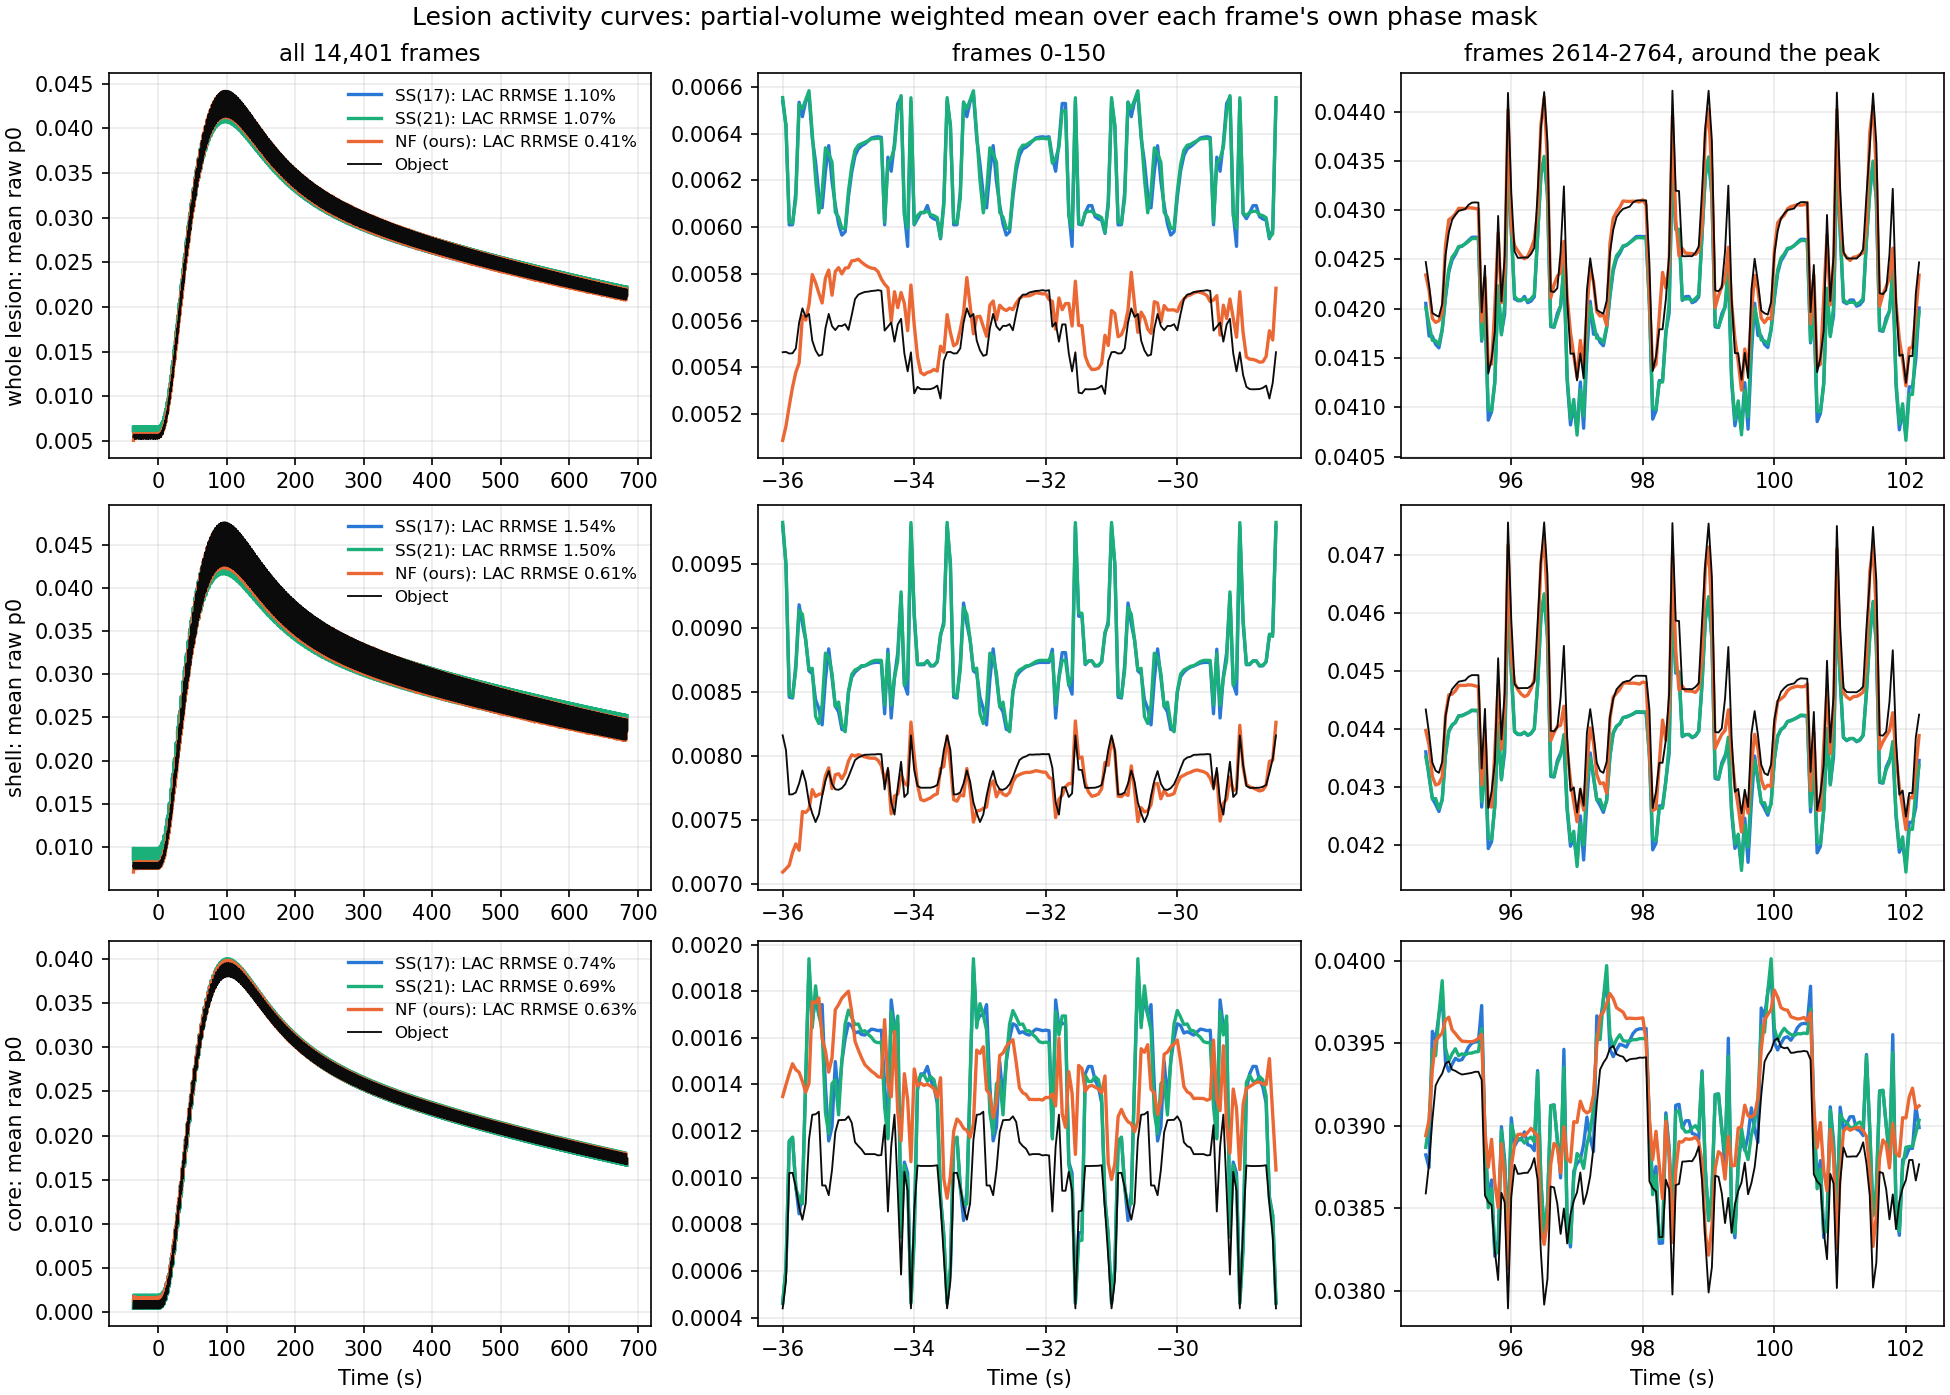
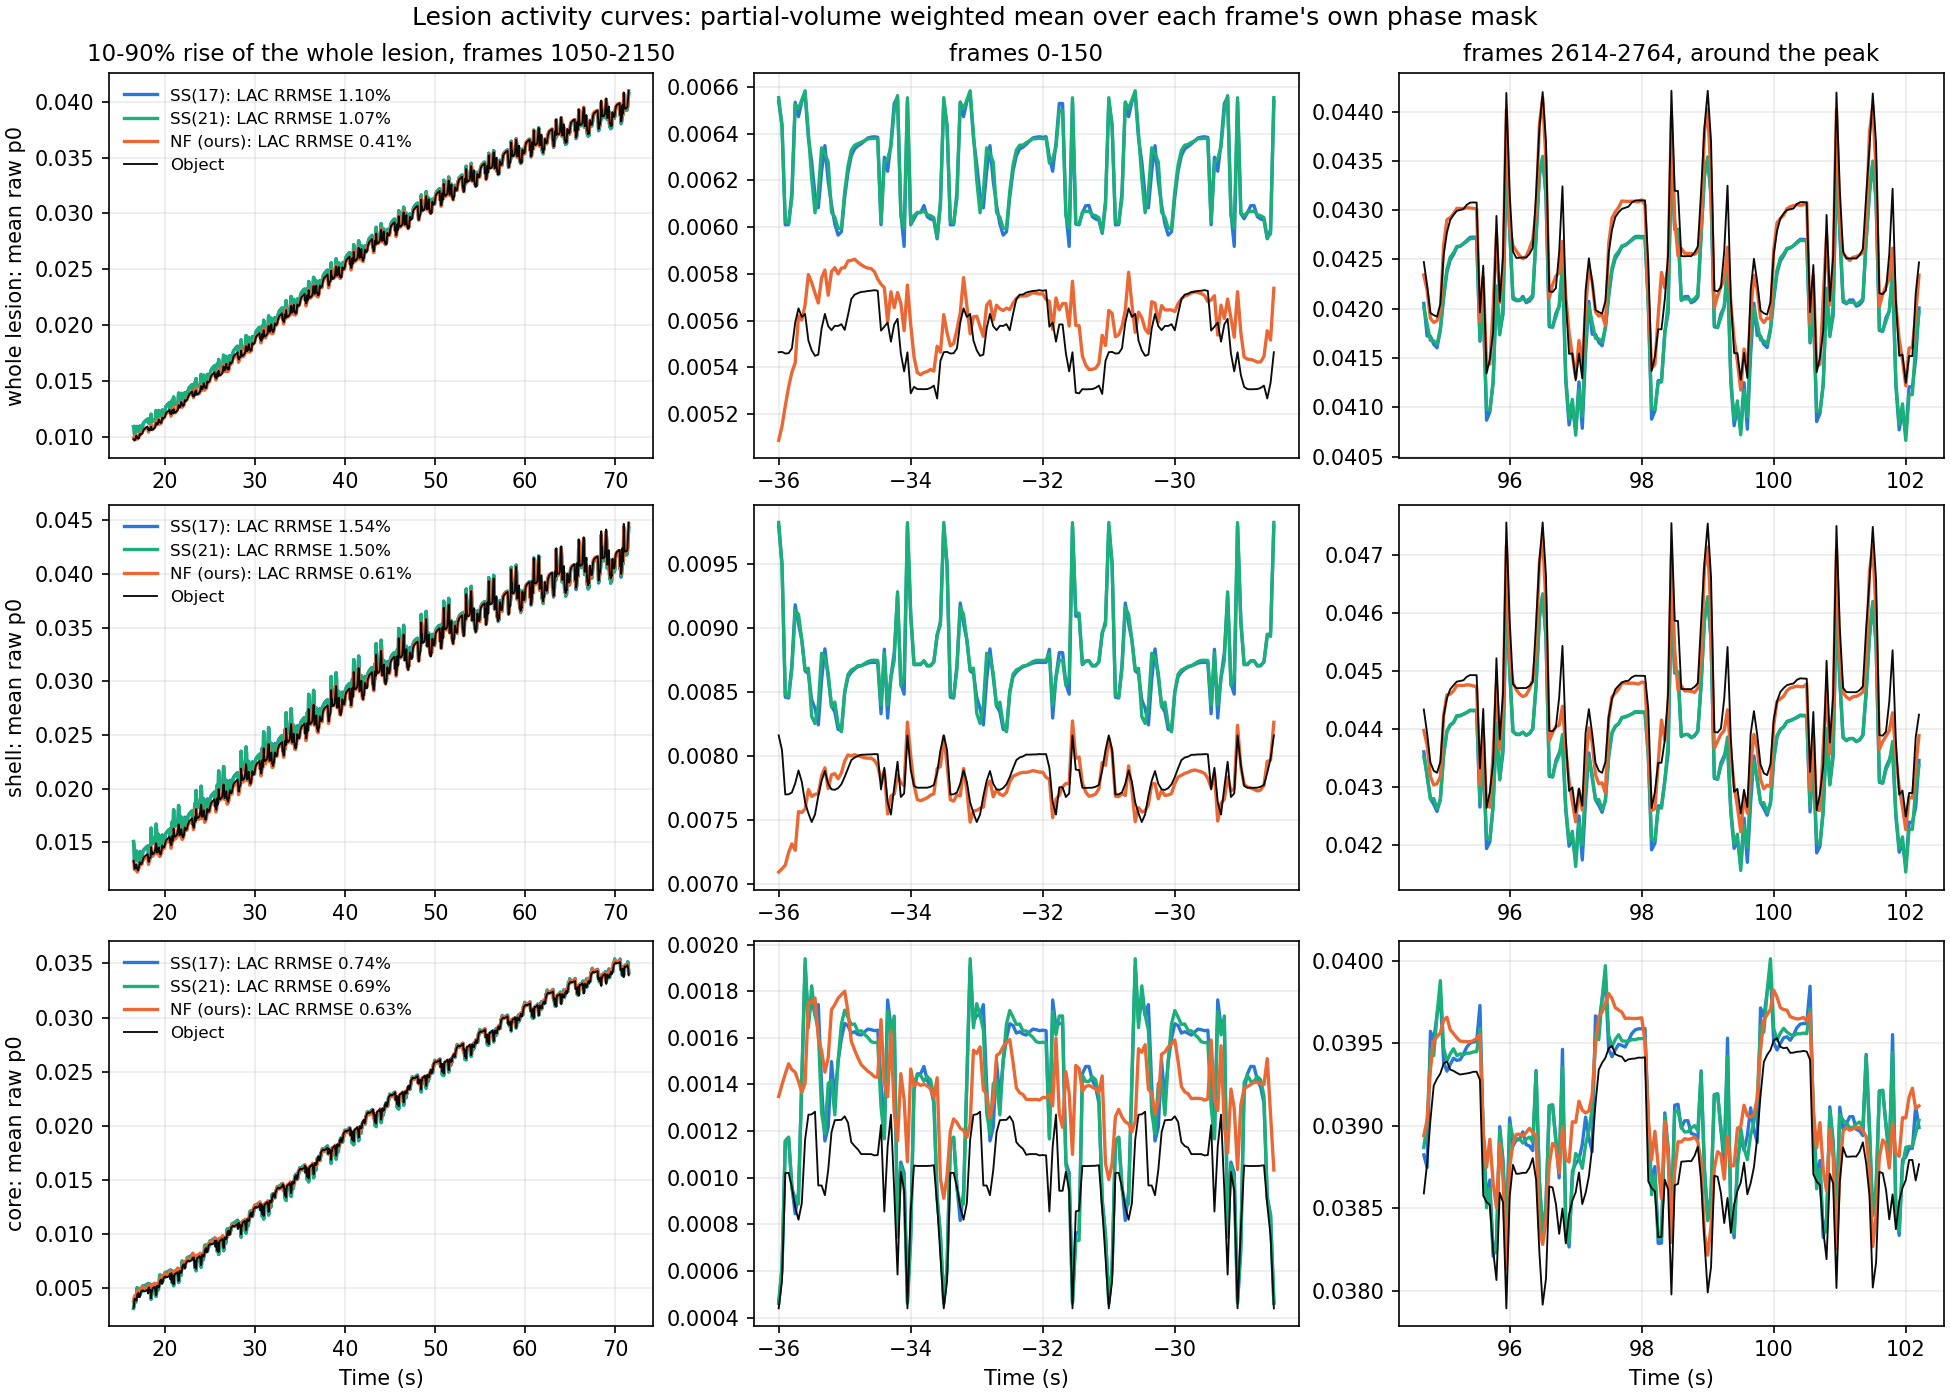
Regenerate the lesion-curve figure with the rise panel
Rerun moby_lesion_curves at ccf0b6b on the formal run: the curves are bitwise
identical to the earlier record; the figure now shows the 10-90% rise of the
whole lesion and the json records the new commit.

diff --git a/motion_static/PROGRESS.md b/motion_static/PROGRESS.md
@@ -1786,7 +1786,12 @@ weighted mean with each frame's own respiratory-phase mask, for the whole lesion
 - Code `cf2314a`: [evaluation/moby_lesion_curves.py](evaluation/moby_lesion_curves.py) and
   [tests/test_moby_lesion_curves.py](tests/test_moby_lesion_curves.py) (2 tests: Gram-matrix
   SS factors equal the full SVD; truth, SS(r) and NF curves equal weighted means of the full
-  images on an asymmetric lesion; four rejections). 139 tests pass.
+  images on an asymmetric lesion; four rejections). 139 tests pass. On the user's request
+  the figure's first column shows the 10-90% rise of the whole lesion's breath-mean curve
+  (16.5-71.5 s) instead of all 14,401 frames, which were unreadable, and the legend moved
+  clear of it (`6fc5b53`, `ccf0b6b`, one more test; 140 tests pass). The outputs were
+  regenerated at `ccf0b6b`: the curves are bitwise identical, only the figure and the
+  recorded commit changed.
 - Run on this machine (3.4 min, 5.3 GB) with the formal run's `model.pt` (sha256 equal to
   Vista's) and `--data-file ~/Data/dce-moby/moby_z100.h5` (recorded sha256):
   [results/dce_moby_lesion_curves_20261030_full_A/](results/dce_moby_lesion_curves_20261030_full_A/).
